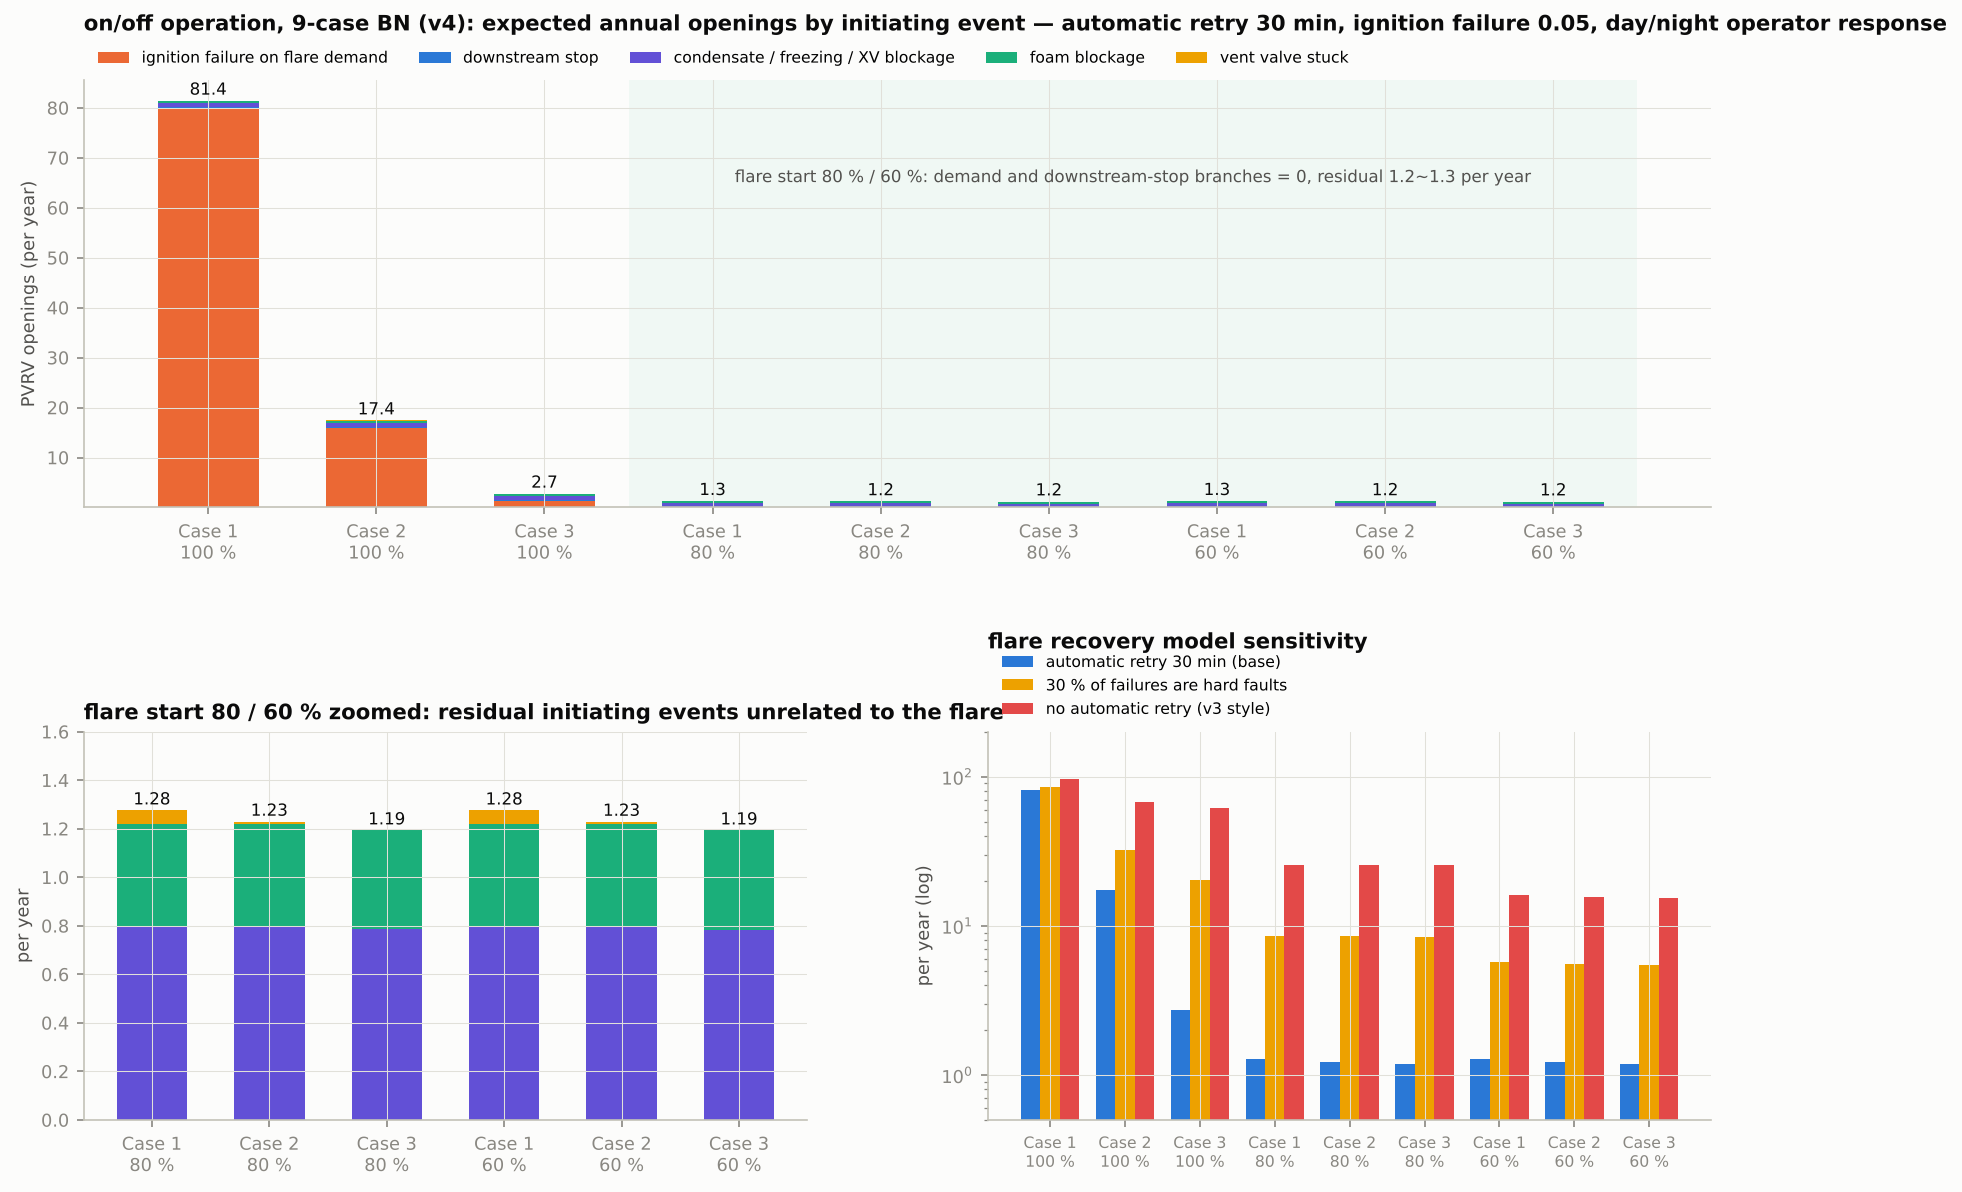
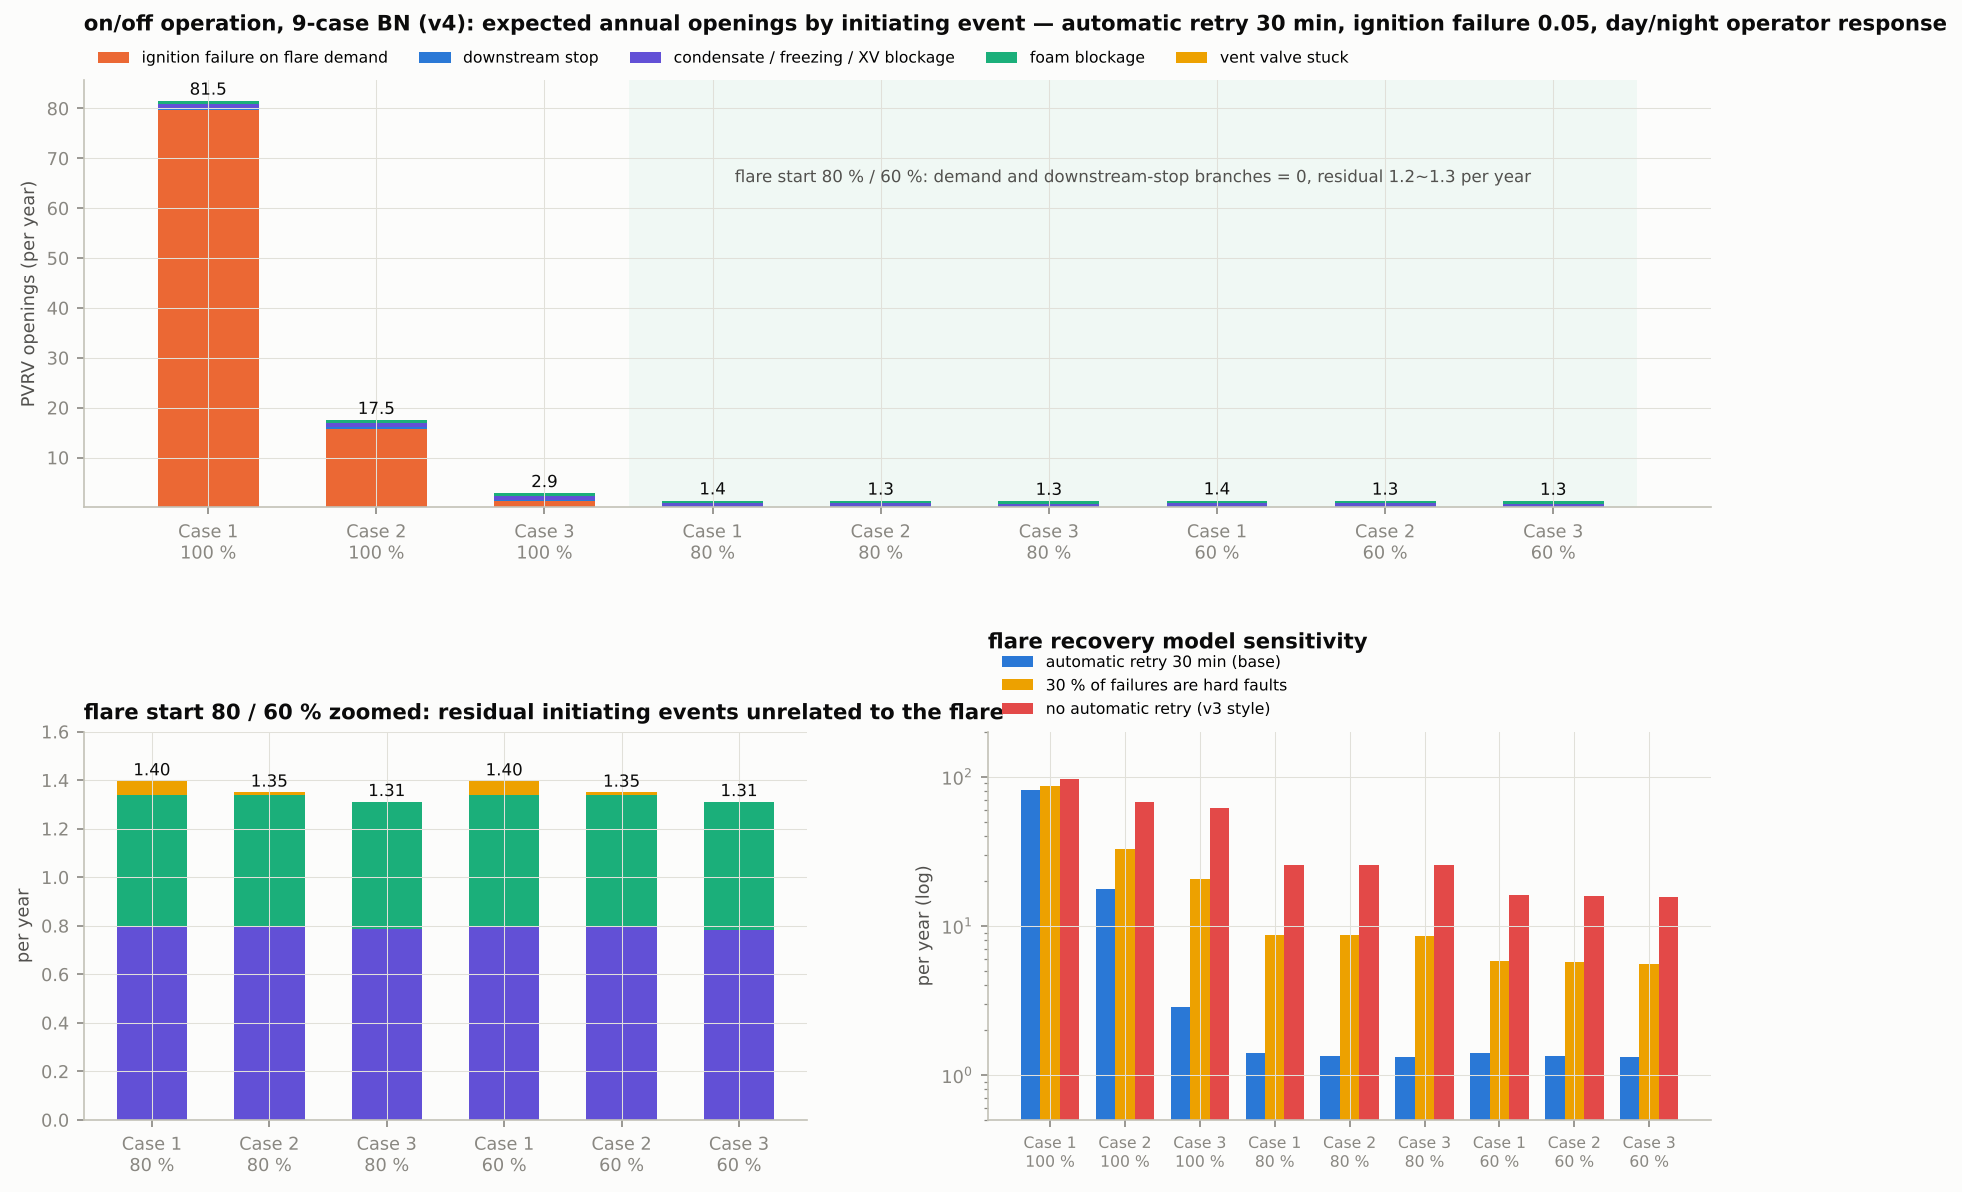
BN v4.1: foam fouling of the PVRV 0.3 -> 0.1 (one value with the QRA), NOG-070 fail-to-open PFD with 1oo2 / beta on the shared header
- p_pv_fouled 0.1 (sensitivity 0.03-0.3); foam branch 0.42 -> 0.54 openings/yr at flare start 80 %
- p_pv_stuck 4.8e-3 per demand (NOG-070 2020 Table A.2.1, lambda_DU 1.1e-6 /h, annual test), beta_pv 0.1
- pv_pfd(), pv_overpressure(); overpressure columns in bn_onoff_9cases.csv
- guard against a zero-weight recovery branch in slice_inference (sensitivity runs)
- results and README refreshed

Claude-Session: https://claude.ai/code/session_015w7cPEZmBmH3CRSdnbx17g

Changed region(s): [[0.1865, 0.6518, 0.4042, 0.7139], [0.0622, 0.6518, 0.1555, 0.7139], [0.0933, 0.0621, 0.1244, 0.0931]]

diff --git a/bayesian_network/pv_bn.py b/bayesian_network/pv_bn.py
@@ -28,7 +28,7 @@ PARAMS = {
     'pfd_flare':     dict(v=0.05, unit='probability of failure on demand', src='Assumption. Mid value of the IEC 61511 SIL 1 band (0.01-0.1); failure modes (ignition, flame detection, freezing) after Travnicek'),
     'lam_foam':      dict(v=2.0,  unit='per year', src='Kougias 2014 (16 Danish plants, up to 3 per year), Moeller 2012 (7 of 15 plants regularly)'),
     'p_block_foam':  dict(v=0.3,  unit='probability', src='Assumption. EA 2019 incident review (foam blocking PRVs and gas lines)'),
-    'p_pv_fouled':   dict(v=0.3,  unit='probability', src='Assumption. EA 2019 (2012-06 foam blocked the PRV and the roof ruptured; 2013-01 floating layer blocked the PRV)'),
+    'p_pv_fouled':   dict(v=0.1,  unit='probability', src='Assumption (v4.1: 0.3 -> 0.1, the same value as the QRA seal-failure chain). EA 2019 (2012-06 foam blocked the PRV and the roof ruptured; 2013-01 floating layer blocked the PRV). Sensitivity 0.03-0.3'),
     'lam_cond':      dict(v=0.5,  unit='per year', src='Assumption. Condensate pot management failure'),
     'lam_freeze':    dict(v=0.2,  unit='per year (Dec-Feb only)', src='Assumption. ARIA 47807 / 42739 (isolation by freezing, frozen valve)'),
     'lam_xv':        dict(v=0.1,  unit='per year', src='Assumption. Shut-off valve mis-operation / interlock isolation (ARIA 49983)'),
@@ -48,7 +48,8 @@ PARAMS = {
     'pressure_backup': dict(v=True, unit='', src='Whether a pressure-based flare start (PSH) exists. With fill-level start only, False -> no backup in the stuck-vent-valve branch'),
     # ---- optional nodes (defaults have no effect)
     'level_bias':    dict(v={0.0: 1.0}, unit='fill error: probability', src='Assumption. Ultrasonic level indicator error (inner membrane shape). Sensitivity: {-0.05: .25, 0: .5, +0.05: .25}'),
-    'p_pv_stuck':    dict(v=0.0, unit='probability of failure per opening demand', src='Assumption. PVRV stuck (corrosion, freezing). Sensitivity value 0.01'),
+    'p_pv_stuck':    dict(v=0.0048, unit='probability of failure per opening demand (one valve)', src='NOG-070 (2020) Table A.2.1, PSV: lambda_DU 1.1e-6 /h (fail to open before test pressure), annual proof test: PFD = lambda tau / 2 = 4.8e-3. Sensitivities: 2.2e-6 /h (all DU modes), dirty service x5 (foam, sulphur, condensate)'),
+    'beta_pv':       dict(v=0.1,  unit='common-cause factor', src='IEC 61508-6 beta for two identical valves on a shared header (1oo2: PFD = beta PFD + PFD^2); stop / demand / wv branches. Foam / block branches isolate one digester -> one valve'),
     'p_reseat':      dict(v=0.0, unit='probability of reseat failure per opening episode', src='Assumption. Seat fouling. Sensitivity value 0.05'),
     'Q_leak':        dict(v=20.0, unit='m3/h', src='Assumption. Leak rate after a reseat failure'),
     't_leak_h':      dict(v=12.0, unit='h', src='Assumption. Mean time until a leak is found and fixed'),
@@ -103,7 +104,7 @@ def slice_inference(case, q, fill, p_atm, demand, day, winter, prm, wv_prob):
                 end = min(D, t_on + e)                # downstream recovery or flare recovery, whichever is first
                 if t_open < end:
                     w = pb * pD * pe * pfd
-                    op = (recov_op.get(e, 0.0) / pe) if (t_on + e <= D) else 0.0     # share of this weight where the operator finds the valve venting
+                    op = (recov_op.get(e, 0.0) / pe) if (t_on + e <= D and pe > 0) else 0.0     # share of this weight where the operator finds the valve venting
                     po += w; vent += w * (end - t_open) * q; dur += w * (end - t_open); iv.append((w, t_open, end, op))
     out['stop'] = (p_stop, po, vent, dur, iv)
     # --- flare demand (indicated f_on = true fill f_on + bias): the consumer keeps taking 60 -> only the surplus (q - use) raises the holder and the pressure
@@ -114,7 +115,7 @@ def slice_inference(case, q, fill, p_atm, demand, day, winter, prm, wv_prob):
             t_o = float(ph.t_full_h(f0, q - use, p_atm, case) + ph.t_rigid_h(case, q - use))
             for e, pe in recov.items():
                 if t_o < e:
-                    w = pb * pe * pfd; po += w; vent += w * (e - t_o) * (q - use); dur += w * (e - t_o); iv.append((w, t_o, e, recov_op.get(e, 0.0) / pe))
+                    w = pb * pe * pfd; po += w; vent += w * (e - t_o) * (q - use); dur += w * (e - t_o); iv.append((w, t_o, e, recov_op.get(e, 0.0) / pe if pe > 0 else 0.0))
         out['demand'] = (float(demand), po, vent, dur, iv)
     else:
         out['demand'] = (0.0, 0.0, 0.0, 0.0, [])
@@ -170,6 +171,16 @@ def run_year(case, inp, prm=PARAMS, occupancy=False):
         for k in occ_k: df[f's_{k}'] = occ_k[k][:n]   # ... by initiating event
     return df
 
+def pv_pfd(prm=PARAMS):
+    """PFD of the relief on demand: shared header (two valves, 1oo2 with common cause) and an isolated digester (one valve)"""
+    p = prm['p_pv_stuck']['v']; b = prm['beta_pv']['v']
+    return dict(shared=b * p + ((1 - b) * p) ** 2, single=p)
+
+def pv_overpressure(df, prm=PARAMS):
+    """overpressure events per year because the PVRV does not open when it should (hardware), from the hourly opening demands"""
+    f = pv_pfd(prm)
+    return float(df[['p_stop', 'p_demand', 'p_wv']].sum().sum() * f['shared'] + df[['p_foam', 'p_block']].sum().sum() * f['single'])
+
 def summarize(df, prm=PARAMS):
     s = {}
     for k in ('stop', 'demand', 'foam', 'block', 'wv'):
@@ -178,7 +189,8 @@ def summarize(df, prm=PARAMS):
     s['total'] = dict(openings_per_yr=tot, vent_m3_per_yr=df['v_open'].sum(), open_h_per_yr=df['d_open'].sum(),
                       ch4_kg_per_yr=df['ch4_kg'].sum(), P_at_least_one_per_yr=1 - np.exp(-tot),
                       chatter_cycles_per_yr=df['d_open'].sum() * prm['chatter_per_h']['v'],
-                      pv_stuck_overpressure_per_yr=tot * prm['p_pv_stuck']['v'],
+                      pv_stuck_overpressure_per_yr=pv_overpressure(df, prm),
+                      pv_fouled_overpressure_per_yr=prm['lam_foam']['v'] * prm['p_block_foam']['v'] * prm['p_pv_fouled']['v'],
                       reseat_fail_per_yr=tot * prm['p_reseat']['v'],
                       reseat_leak_m3_per_yr=tot * prm['p_reseat']['v'] * prm['Q_leak']['v'] * prm['t_leak_h']['v'])
     return s

diff --git a/bayesian_network/run_onoff9.py b/bayesian_network/run_onoff9.py
@@ -51,7 +51,7 @@ for fo in (1.0, 0.8, 0.6):
                              open_block=s['block']['openings_per_yr'], open_wv=s['wv']['openings_per_yr'], openings=s['total']['openings_per_yr'],
                              P_at_least_one=s['total']['P_at_least_one_per_yr'], open_h=s['total']['open_h_per_yr'], vent_m3=s['total']['vent_m3_per_yr'],
                              vent_demand=s['demand']['vent_m3_per_yr'], vent_stop=s['stop']['vent_m3_per_yr'], ch4_kg=s['total']['ch4_kg_per_yr'],
-                             chatter_cycles=s['total']['chatter_cycles_per_yr'], p_state_max=(float(df['p_state_open'].max()) if 'p_state_open' in df else np.nan)))
+                             chatter_cycles=s['total']['chatter_cycles_per_yr'], overpressure_hw=s['total']['pv_stuck_overpressure_per_yr'], overpressure_fouled=s['total']['pv_fouled_overpressure_per_yr'], p_state_max=(float(df['p_state_open'].max()) if 'p_state_open' in df else np.nan)))
             print(key, 'openings %.3f  (stop %.3f demand %.3f foam %.3f block %.3f wv %.3f)  vent %.0f m3' % (
                 s['total']['openings_per_yr'], s['stop']['openings_per_yr'], s['demand']['openings_per_yr'], s['foam']['openings_per_yr'], s['block']['openings_per_yr'], s['wv']['openings_per_yr'], s['total']['vent_m3_per_yr']))
 r = pd.DataFrame(rows); r.to_csv(os.path.join(HERE, 'out', 'bn_onoff_9cases.csv'), index=False, float_format='%.5f')

diff --git a/bayesian_network/bn_sens_figs.py b/bayesian_network/bn_sens_figs.py
@@ -34,7 +34,7 @@ sens = [
     ('flare failure on demand 0.01 / 0.10', {'pfd_flare': 0.01}, {'pfd_flare': 0.10}),
     ('downstream stop frequency 6 / 24 per year', {'lam_stop': 6.0}, {'lam_stop': 24.0}),
     ('foaming 1 / 3 per year', {'lam_foam': 1.0}, {'lam_foam': 3.0}),
-    ('probability that foam fouls the PVRV 0.1 / 0.5', {'p_pv_fouled': 0.5}, {'p_pv_fouled': 0.1}),
+    ('probability that foam fouls the PVRV 0.03 / 0.3', {'p_pv_fouled': 0.3}, {'p_pv_fouled': 0.03}),
     ('operator response: always daytime / always night', {'R_night': {0.5: 0.6, 2.0: 0.3, 8.0: 0.1}}, {'R_day': {0.5: 0.2, 2.0: 0.4, 8.0: 0.4}}),
     ('8-h response share 0 (alarm trusted) / doubled', {'R_day': {0.5: 0.65, 2.0: 0.35, 8.0: 0.0}, 'R_night': {0.5: 0.3, 2.0: 0.7, 8.0: 0.0}},
                                            {'R_day': {0.5: 0.5, 2.0: 0.3, 8.0: 0.2}, 'R_night': {0.5: 0.1, 2.0: 0.2, 8.0: 0.7}}),

diff --git a/bayesian_network/sens_v4.py b/bayesian_network/sens_v4.py
@@ -24,7 +24,7 @@ SENS = [
     ('downstream stops 6 / 24 per year', {'lam_stop': 6.0}, {'lam_stop': 24.0}),
     ('stop duration shorter / longer', {'D_dist': {0.5: 0.6, 2.0: 0.3, 6.0: 0.08, 24.0: 0.02}}, {'D_dist': {0.5: 0.3, 2.0: 0.3, 6.0: 0.25, 24.0: 0.15}}),
     ('foaming 1 / 3 per year', {'lam_foam': 1.0}, {'lam_foam': 3.0}),
-    ('probability that foam fouls the PVRV 0.5 / 0.1', {'p_pv_fouled': 0.5}, {'p_pv_fouled': 0.1}),
+    ('probability that foam fouls the PVRV 0.3 / 0.03', {'p_pv_fouled': 0.3}, {'p_pv_fouled': 0.03}),
     ('condensate / XV blockage 0.3 / 1.2 per year', {'lam_cond': 0.25, 'lam_xv': 0.05}, {'lam_cond': 1.0, 'lam_xv': 0.2}),
     ('vent valve stuck 0.02 / 0.5 per year', {'lam_wv': 0.02}, {'lam_wv': 0.5}),
     ('stuck latent period 72 / 336 h', {'latent_wv_h': 72}, {'latent_wv_h': 336}),

diff --git a/bayesian_network/buffer_band.py b/bayesian_network/buffer_band.py
@@ -30,7 +30,7 @@ bb = pd.DataFrame(rows); bb.to_csv('out/buffer_band.csv', index=False, float_for
 # optional-node sensitivity (Case 1, base band)
 sens = []
 for name, mod in [('base', {}), ('indicator error ±5 %', {'level_bias': {-0.05: 0.25, 0.0: 0.5, 0.05: 0.25}}), ('indicator reads 5 % low', {'level_bias': {0.05: 1.0}}),
-                  ('PVRV stuck 0.01', {'p_pv_stuck': 0.01}), ('reseat failure 0.05', {'p_reseat': 0.05})]:
+                  ('PVRV stuck, dirty service x5 (0.024)', {'p_pv_stuck': 0.024}), ('reseat failure 0.05', {'p_reseat': 0.05})]:
     prm = copy.deepcopy(bn.PARAMS)
     for k, v in mod.items(): prm[k]['v'] = v
     df = bn.run_year(1, inp, prm); s = bn.summarize(df, prm)['total']

diff --git a/README.md b/README.md
@@ -16,7 +16,7 @@ Two questions are answered, one by each package.
 | `pressure_model/` | *When* does the PVRV open, given production, holder fill, weather and downstream behaviour? | Lumped ideal-gas model, 1-s time step, one year (31.5 million steps) | < 1 min per year with numba, 12–25 min in pure Python |
 | `bayesian_network/` | *How often* per year, given uncertain initiating events, flare reliability and operator response? | One-hour-slice Bayesian network with exact enumeration, physics taken from the pressure model | about one minute for all nine cases |
 
-Headline result: with the holder kept full (flare start at 100 %) the expected number of PVRV openings is 81 / 17 / 2.7 per year for operating pressures of 4.0 / 3.0 / 2.0 kPag, almost all of them caused by flare ignition failures. Starting the flare at 80 % fill or lower removes those openings entirely; what remains is 1.2–1.3 per year from events that do not involve the flare (condensate, freezing, foam, a stuck vent valve). Both tools agree on the ignition-failure branch: 79.7 / 15.8 / 1.3 expected openings from the BN against 80 / 21 / 3 realised openings in the 1-s simulation.
+Headline result: with the holder kept full (flare start at 100 %) the expected number of PVRV openings is 82 / 18 / 2.9 per year for operating pressures of 4.0 / 3.0 / 2.0 kPag, almost all of them caused by flare ignition failures. Starting the flare at 80 % fill or lower removes those openings entirely; what remains is 1.3–1.4 per year from events that do not involve the flare (condensate, freezing, foam, a stuck vent valve). Both tools agree on the ignition-failure branch: 79.7 / 15.8 / 1.3 expected openings from the BN against 80 / 21 / 3 realised openings in the 1-s simulation.
 
 ![nine on/off cases: holder fill and PVRV openings](results/figures/onoff_9cases_fill_pv.png)
 
@@ -153,6 +153,8 @@ The year is cut into 8,760 one-hour slices. In each slice the evidence (producti
 **`pv_bn.py`** — the network.
 
 - `PARAMS`: every number with its unit and source. Initiating-event frequencies (downstream stops 12/yr, power cuts 0.1/yr, foaming 2/yr, condensate 0.5/yr, shut-off valve 0.1/yr, freezing 0.2/yr in winter, stuck vent valve 0.1/yr), the flare PFD (0.05), the response-time distributions, the retry logic (`t_retry_h`, `n_retry`, `p_hard`), the flare start level `f_on`, the `pressure_backup` switch and the optional nodes (level-indicator bias, stuck PVRV, reseat failure).
+
+  **v4.1 (2026-10-21).** The probability that foam reaching the outlet also fouls the PVRV (`p_pv_fouled`) is 0.1 instead of 0.3 — the same value the QRA uses for its seal-failure chain, so that both packages read one parameter (sensitivity 0.03–0.3); the foam branch of the 80 % cases rises from 0.42 to 0.54 openings a year. The stuck-PVRV node now carries a sourced value: NOG-070 (2020) Table A.2.1 gives λ_DU = 1.1 × 10⁻⁶ /h for a PSV that fails to open before the test pressure, i.e. PFD = 4.8 × 10⁻³ per demand with an annual proof test (`p_pv_stuck`); the shared header is protected 1oo2 with β = 0.1 (`beta_pv`), an isolated digester by one valve. `summarize()` and `bn_onoff_9cases.csv` report the resulting overpressure frequency (0.046 / 0.015 / 0.007 per year at 100 %, 0.006 at 80 %) next to the foam-fouling overpressure (0.06 per year). These are the initiating frequencies of the no-relief chain in [biogas-pvrv-qra](https://github.com/drinkgarlic/biogas-pvrv-qra).
 - `load_inputs()`: production, methane fraction, atmospheric pressure, fill series and demand series, day/night and winter flags.
 - `slice_inference()`: the heart of the model. Builds the recovery-time distribution by combining the operator response with the geometric retry sequence, then evaluates, for each initiating event, the probability that the opening time is shorter than the recovery time, together with the expected vented volume and duration and the list of open intervals.
 - `run_year()`: loops over the slices, multiplies by the initiating-event probabilities and, with `occupancy=True`, spreads the open intervals over the hours to obtain the state probability (the probability that the valve is open at a given hour, as opposed to the probability that an event starting in that hour will eventually open it).
@@ -170,11 +172,11 @@ Expected PVRV openings per year, base variant (automatic retry 30 min, PFD 0.05)
 
 | Flare start | Case 1 (4.0 kPag) | Case 2 (3.0) | Case 3 (2.0) | Dominant branch |
 |---|---|---|---|---|
-| 100 % | 81.4 | 17.4 | 2.7 | ignition failure on flare demand (79.7 / 15.8 / 1.3) |
-| 80 % | 1.28 | 1.23 | 1.19 | blockage 0.80, foam 0.42, stuck vent valve ≤ 0.06 |
-| 60 % | 1.28 | 1.23 | 1.19 | identical to 80 % — the residual branches do not see the fill level |
+| 100 % | 81.5 | 17.5 | 2.9 | ignition failure on flare demand (79.7 / 15.8 / 1.3) |
+| 80 % | 1.40 | 1.35 | 1.31 | blockage 0.80, foam 0.54, stuck vent valve ≤ 0.06 |
+| 60 % | 1.40 | 1.35 | 1.31 | identical to 80 % — the residual branches do not see the fill level |
 
-If 30 % of the failures cannot be cleared by a retry the 80 % figure becomes 8.5 per year; with no automatic retry at all it is 25.5. In other words the conclusion "80 % or lower gives no flare-related openings" is conditional on ignition failures being transient, and the sensitivity tables in `out/bn_sens_v4_case1_f*.csv` quantify by how much.
+If 30 % of the failures cannot be cleared by a retry the 80 % figure becomes 8.7 per year; with no automatic retry at all it is 25.6. In other words the conclusion "80 % or lower gives no flare-related openings" is conditional on ignition failures being transient, and the sensitivity tables in `out/bn_sens_v4_case1_f*.csv` quantify by how much.
 
 ---
 
